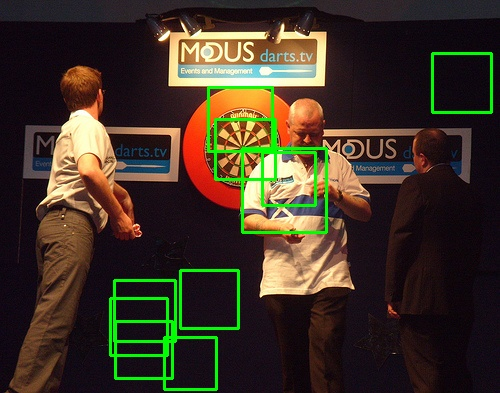
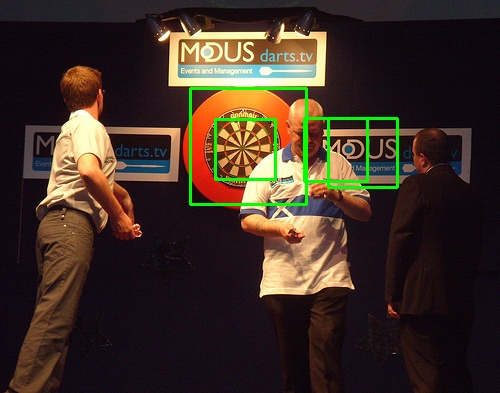
past the rainbow phase

Changed region(s): [[0.36, 0.2137, 0.81, 0.6107], [0.21, 0.6718, 0.48, 1.0], [0.84, 0.1221, 0.99, 0.3053]]

diff --git a/code/dart.cpp b/code/dart.cpp
@@ -53,7 +53,7 @@ void houghCombine(Mat &hCircle, Mat &hLines, Mat &hCombined);
 
 void houghLineDA(Mat &outGradMag_uchar, Mat &outGradDir);
 
-int * weighBoxes(vector<Rect> &dartboards, Mat &hough_line, Mat &hough_circ);
+void weighBoxes(vector<Rect> &dartboards, int *votes, Mat &hough_line, Mat &hough_circ);
 
 void filterBoxes(vector<Rect> &dartboards, int *votes, int Ts, Mat &frame, 
   string filename);
@@ -128,8 +128,8 @@ int main(int argc, const char** argv)
   //houghCombine(h_circ_uc, h_line_uc, h_comb_uc);
 
   int Ts = 200;
-  int *votes;
-  votes = weighBoxes(dartboards, h_line_uc, h_circ_uc);
+  int votes[dartboards.size()];
+  weighBoxes(dartboards, votes, h_line_uc, h_circ_uc);
   filterBoxes(dartboards, votes, Ts, frame, filename);
   
 	return 0;
@@ -137,7 +137,7 @@ int main(int argc, const char** argv)
 
 // ----------------------------------------------------------------------------
 
-void filterBoxes(vector<Rect> &dartboards, int *votes, int Ts, Mat &frame, 
+void filterBoxes(vector<Rect> &dartboards, int votes[], int Ts, Mat &frame, 
   string filename)
 {
   int count = 0;
@@ -149,6 +149,7 @@ void filterBoxes(vector<Rect> &dartboards, int *votes, int Ts, Mat &frame,
         Point(dartboards[i].x + dartboards[i].width, 
         dartboards[i].y + dartboards[i].height), Scalar(0, 255, 0), 2);
       count++;
+      cout << "voteofbox " << votes[i] <<endl;
     }
   }
   imwrite("out/" + filename + "_detected.jpg", frame);
@@ -158,16 +159,15 @@ void filterBoxes(vector<Rect> &dartboards, int *votes, int Ts, Mat &frame,
 // ----------------------------------------------------------------------------
 
 /** @function weighBoxes */
-int * weighBoxes(vector<Rect> &dartboards, Mat &hough_line, Mat &hough_circ)
+void weighBoxes(vector<Rect> &dartboards, int votes[], Mat &hough_line, Mat &hough_circ)
 {
   // Draw box around dartboards found
   //bool isDart = false;
   //int count = 0;
-  int votes[dartboards.size()];
-  int avgCirc = 0;
+  int maxCirc = 0;
   int maxLine = 0;
   int weightCirc = 1;
-  int weightLine = 5;
+  int weightLine = 1;
   int pixNum = 0; 
   
 	for(int i = 0; i < dartboards.size(); i++)
@@ -181,14 +181,16 @@ int * weighBoxes(vector<Rect> &dartboards, Mat &hough_line, Mat &hough_circ)
       {
         if(maxLine < hough_line.at<uchar>(y,x) )
           maxLine = hough_line.at<uchar>(y,x);
-        avgCirc += hough_circ.at<uchar>(y,x);
+        if(maxCirc < hough_circ.at<uchar>(y,x) )
+          maxCirc = hough_circ.at<uchar>(y,x);
+        //avgCirc += hough_circ.at<uchar>(y,x);
       }
     }
-    avgCirc = avgCirc/pixNum;
-    votes[i] = (maxLine*weightLine + avgCirc*weightCirc)/(weightCirc + weightLine);
+    //avgCirc = avgCirc/pixNum;
+    votes[i] = (maxLine*weightLine + maxCirc*weightCirc)/(weightCirc + weightLine);
+    maxCirc = 0;
+    maxLine = 0;
   }
-      
-  return votes;
 }
 
 // ----------------------------------------------------------------------------
